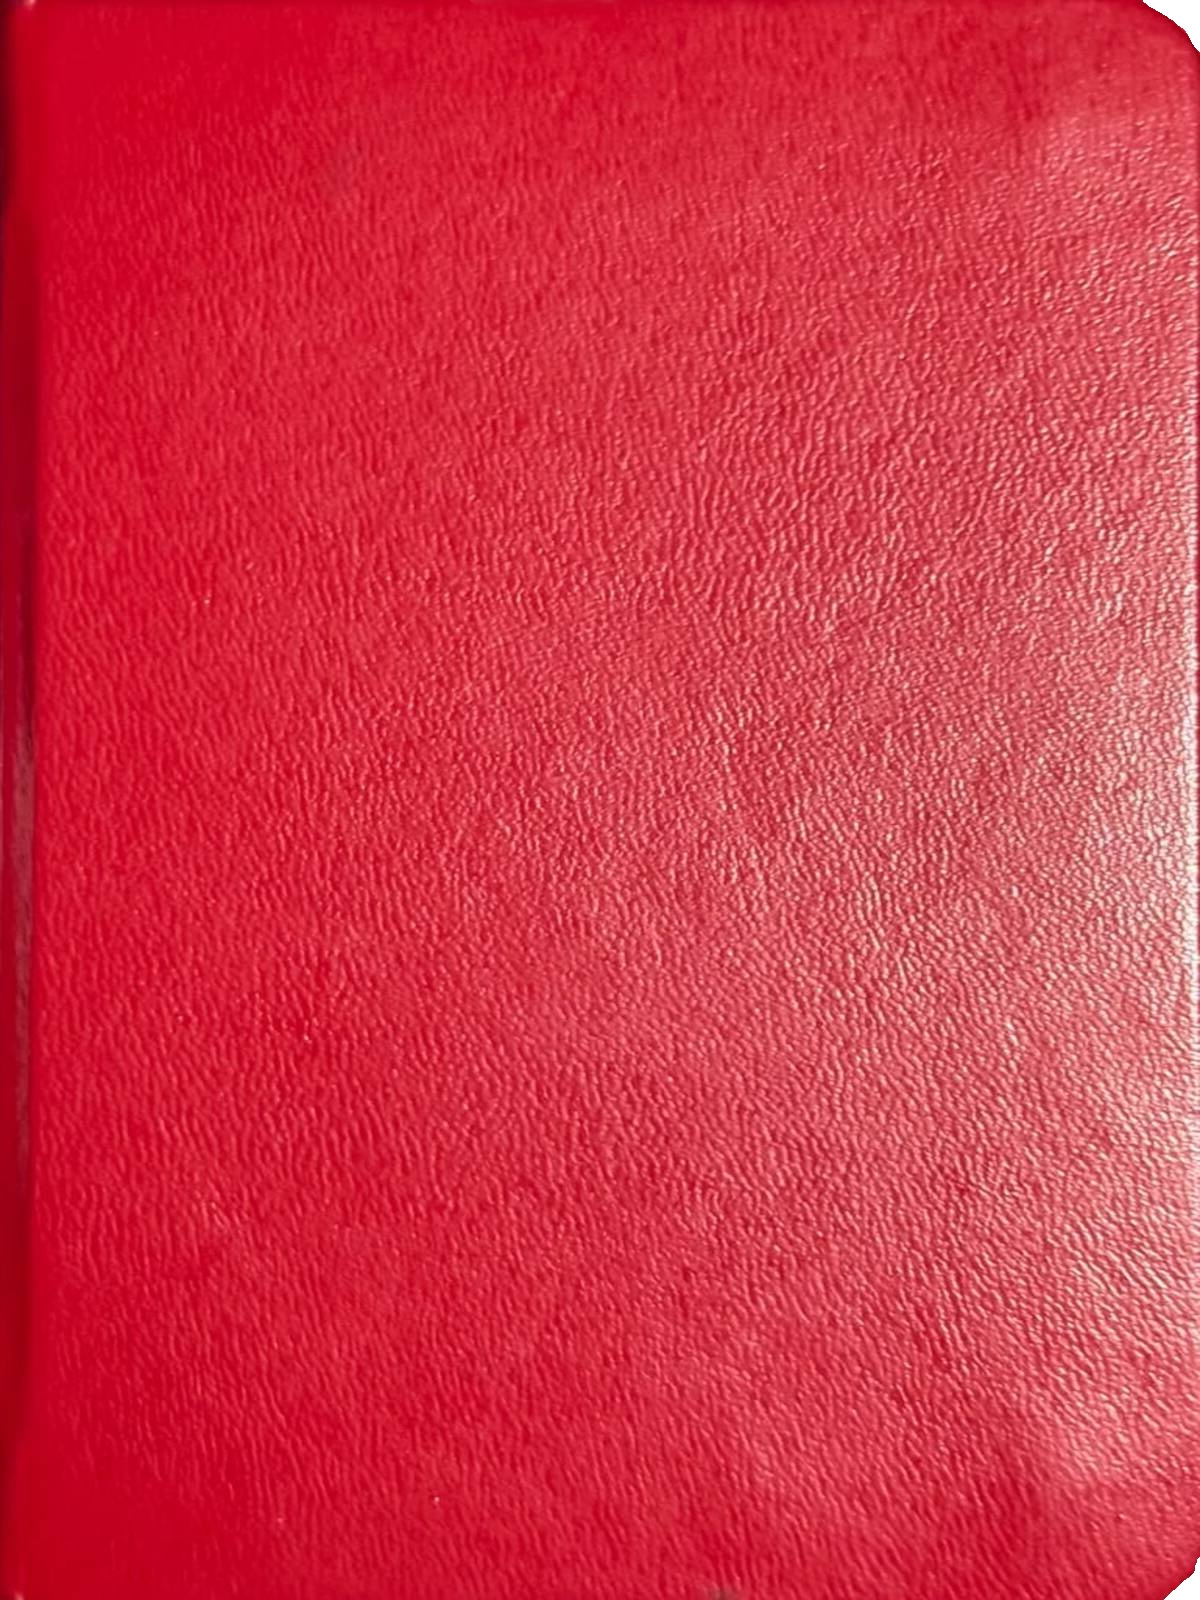
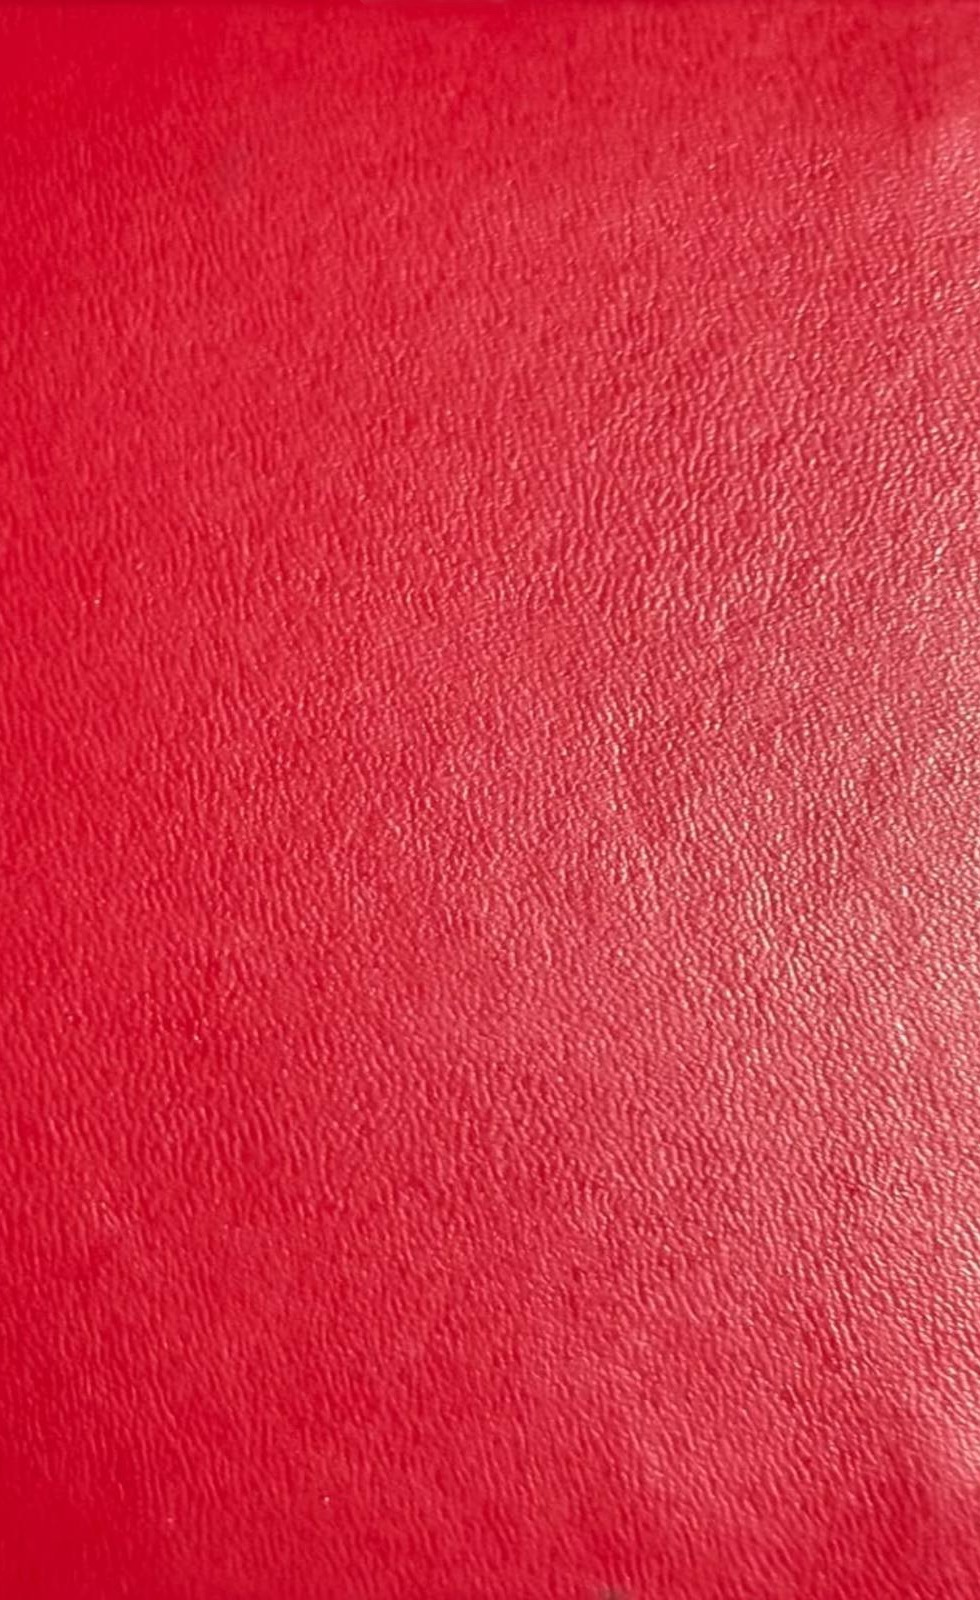
fix(layout): trim white margins from pages and remove document upload button

diff --git a/js/sample-book.js b/js/sample-book.js
@@ -1,12 +1,12 @@
 /**
  * Colección oficial de páginas de Diario Monclovense
- * Generada automáticamente con los manuscritos y portadas oficiales.
+ * Generada automáticamente con los manuscritos y portadas oficiales con recorte de márgenes.
  */
 export const SAMPLE_PAGES = [
   {
     name: 'Portada: Pasta Dura Roja',
     url: 'assets/monclovense/page-01-portada.jpg',
-    width: 1200,
+    width: 980,
     height: 1600,
     rotation: 0,
     description: 'Cubierta exterior encuadernada en pasta dura roja.'
@@ -14,39 +14,39 @@ export const SAMPLE_PAGES = [
   {
     name: '19 de octubre, 2026 — Cap I',
     url: 'assets/monclovense/page-02-pagina1.jpg',
-    width: 1067,
-    height: 1759,
+    width: 1000,
+    height: 1700,
     rotation: 0,
     description: 'Escribir es mi manera de querer escupir el alma.'
   },
   {
     name: 'Página 2 — Reflexión y sinceridad',
     url: 'assets/monclovense/page-03-pagina2.jpg',
-    width: 1049,
-    height: 1744,
+    width: 990,
+    height: 1690,
     rotation: 0,
     description: 'Si un pájaro se enamora de un pez ¿en qué rincón del mundo podrían vivir?'
   },
   {
     name: '25 de octubre, 2026 — Cap II',
     url: 'assets/monclovense/page-04-pagina3.jpg',
-    width: 1064,
-    height: 1748,
+    width: 1000,
+    height: 1690,
     rotation: 0,
     description: 'Pero ella es mi rosa: Pero no es una simple rosa, es tu rosa.'
   },
   {
     name: 'Página 4 — Just for You (QR)',
     url: 'assets/monclovense/page-05-pagina4.jpg',
-    width: 1040,
-    height: 1730,
+    width: 980,
+    height: 1660,
     rotation: 0,
     description: 'Dedicatoria interactiva con código QR Just For You.'
   },
   {
     name: 'Contraportada: Pasta Dura Roja',
     url: 'assets/monclovense/page-06-contraportada.jpg',
-    width: 1200,
+    width: 980,
     height: 1600,
     rotation: 0,
     description: 'Cubierta posterior del diario personal.'

diff --git a/index.html b/index.html
@@ -22,11 +22,11 @@
   <meta name="theme-color" content="#0a0b0e" />
 
   <!-- Hojas de Estilo Modulares con Cache-Busting -->
-  <link rel="stylesheet" href="css/main.css?v=4.2.0" />
-  <link rel="stylesheet" href="css/flipbook.css?v=4.2.0" />
-  <link rel="stylesheet" href="css/toolbar.css?v=4.2.0" />
-  <link rel="stylesheet" href="css/manager.css?v=4.2.0" />
-  <link rel="stylesheet" href="css/zoom.css?v=4.2.0" />
+  <link rel="stylesheet" href="css/main.css?v=4.3.0" />
+  <link rel="stylesheet" href="css/flipbook.css?v=4.3.0" />
+  <link rel="stylesheet" href="css/toolbar.css?v=4.3.0" />
+  <link rel="stylesheet" href="css/manager.css?v=4.3.0" />
+  <link rel="stylesheet" href="css/zoom.css?v=4.3.0" />
 
   <!-- Favicon SVG en Data URI -->
   <link rel="icon" type="image/svg+xml"
@@ -100,10 +100,7 @@
           <span>?</span>
         </button>
 
-        <!-- Botón de Gestión y Carga de Documentos -->
-        <button class="header-btn primary" id="btn-open-manager" title="Subir y gestionar páginas escaneadas">
-          <span>📁 Cargar Documentos</span>
-        </button>
+
       </div>
     </header>
 
@@ -365,11 +362,11 @@
   </div>
 
   <!-- Librerías de Terceros Vendoreadas Localmente (Cero fallos de red) -->
-  <script src="vendor/page-flip.browser.js?v=4.2.0"></script>
-  <script src="vendor/pdf.min.js?v=4.2.0"></script>
+  <script src="vendor/page-flip.browser.js?v=4.3.0"></script>
+  <script src="vendor/pdf.min.js?v=4.3.0"></script>
 
   <!-- Script Modular Principal -->
-  <script type="module" src="js/app.js?v=4.2.0"></script>
+  <script type="module" src="js/app.js?v=4.3.0"></script>
 </body>
 
 </html>

diff --git a/js/app.js b/js/app.js
@@ -2,12 +2,12 @@
  * LuminaFlip - Aplicación Principal
  * Coordinador de UI, motor de Flipbook, Audio FX, Gestor de Páginas y Zoom Panorámico.
  */
-import { AudioFX } from './audio-fx.js?v=4.2.0';
-import { PageManager } from './page-manager.js?v=4.2.0';
-import { FlipbookEngine } from './flipbook-engine.js?v=4.2.0';
-import { ZoomController } from './zoom-controller.js?v=4.2.0';
-import { SAMPLE_PAGES } from './sample-book.js?v=4.2.0';
-import { StorageManager } from './storage.js?v=4.2.0';
+import { AudioFX } from './audio-fx.js?v=4.3.0';
+import { PageManager } from './page-manager.js?v=4.3.0';
+import { FlipbookEngine } from './flipbook-engine.js?v=4.3.0';
+import { ZoomController } from './zoom-controller.js?v=4.3.0';
+import { SAMPLE_PAGES } from './sample-book.js?v=4.3.0';
+import { StorageManager } from './storage.js?v=4.3.0';
 
 class LuminaFlipApp {
   constructor() {
@@ -58,7 +58,7 @@ class LuminaFlipApp {
   }
 
   async _loadInitialBook() {
-    const OFFICIAL_BOOK_VERSION = 'v4.2.0-monclovense';
+    const OFFICIAL_BOOK_VERSION = 'v4.3.0-crop';
     const currentVersion = localStorage.getItem('monflip_book_version');
 
     if (currentVersion !== OFFICIAL_BOOK_VERSION) {

diff --git a/js/flipbook-engine.js b/js/flipbook-engine.js
@@ -175,9 +175,14 @@ export class FlipbookEngine {
     const isPortrait = cWidth < 768 || cWidth < cHeight * 1.15;
     const isSinglePage = this.viewMode === 'single' || (this.viewMode === 'auto' && isPortrait);
 
-    // Relación de aspecto dinámica calculada a partir del documento real cargado
-    let pageAspect = 0.7467;
-    if (this.pageMetadata && this.pageMetadata[0]) {
+    // Relación de aspecto calculada a partir de las páginas interiores del cuaderno para evitar bordes blancos
+    let pageAspect = 0.595;
+    if (this.pageMetadata && this.pageMetadata.length > 1) {
+      const p = this.pageMetadata[1];
+      if (p.width && p.height && p.width > 0 && p.height > 0) {
+        pageAspect = p.width / p.height;
+      }
+    } else if (this.pageMetadata && this.pageMetadata[0]) {
       const p = this.pageMetadata[0];
       if (p.width && p.height && p.width > 0 && p.height > 0) {
         pageAspect = p.width / p.height;

diff --git a/css/flipbook.css b/css/flipbook.css
@@ -60,6 +60,7 @@
 .stf__wrapper,
 .stf__canvas {
   border-radius: 10px;
+  background: transparent !important;
 }
 
 /* Centrado suave de libro cerrado: portada sola a la derecha se centra en la vista */
